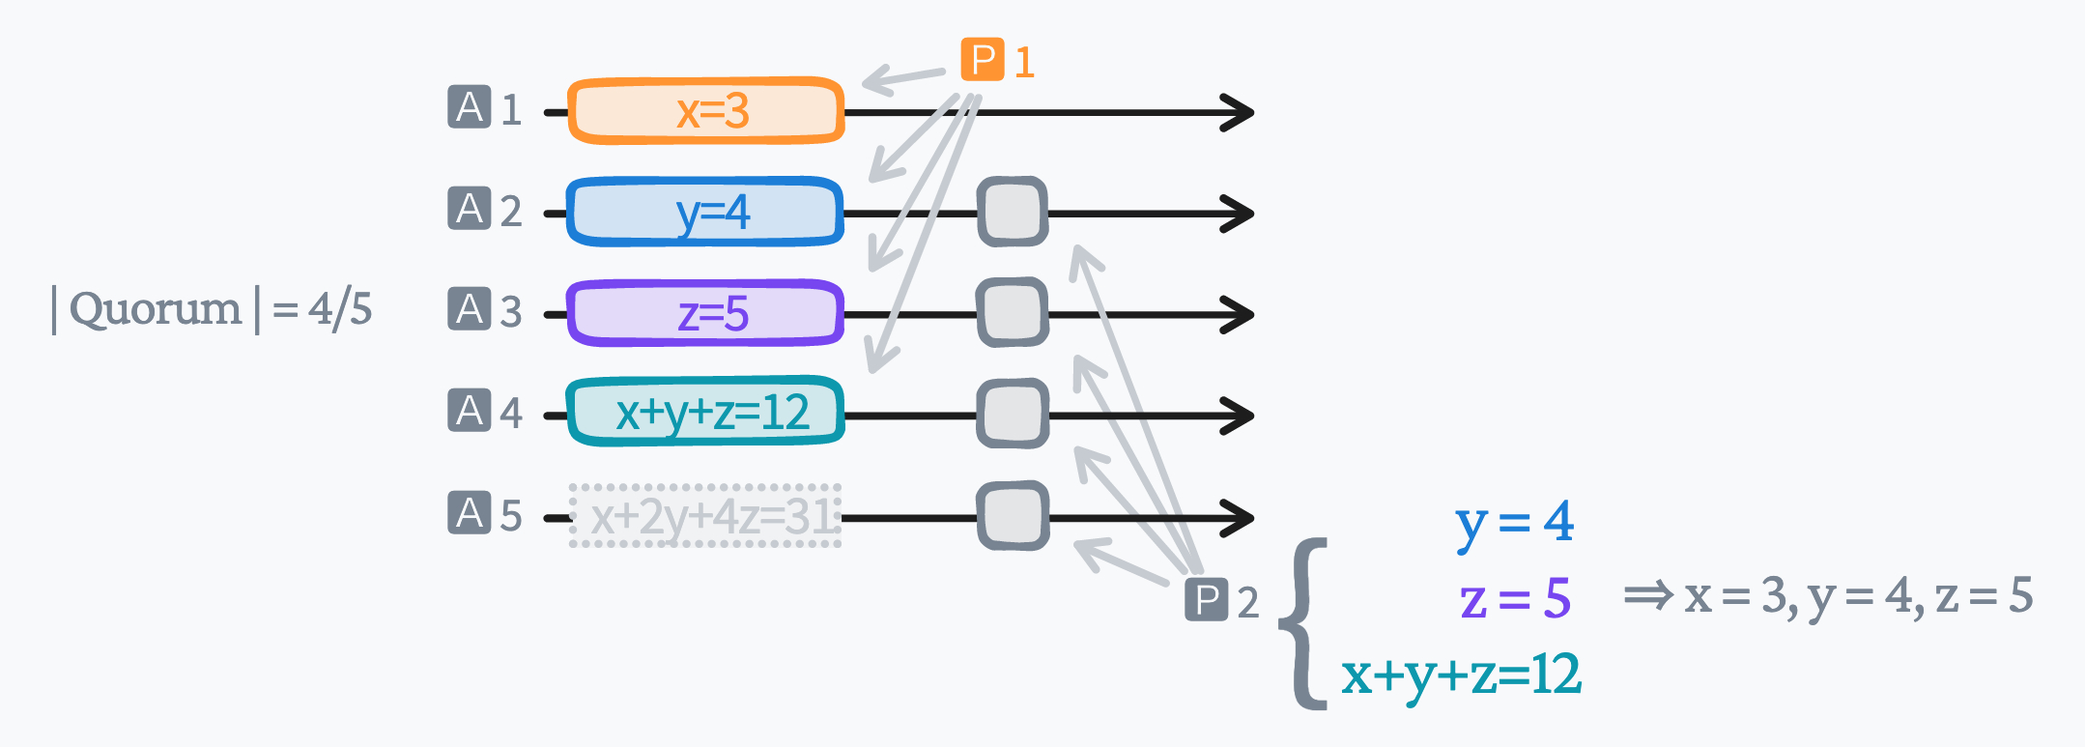
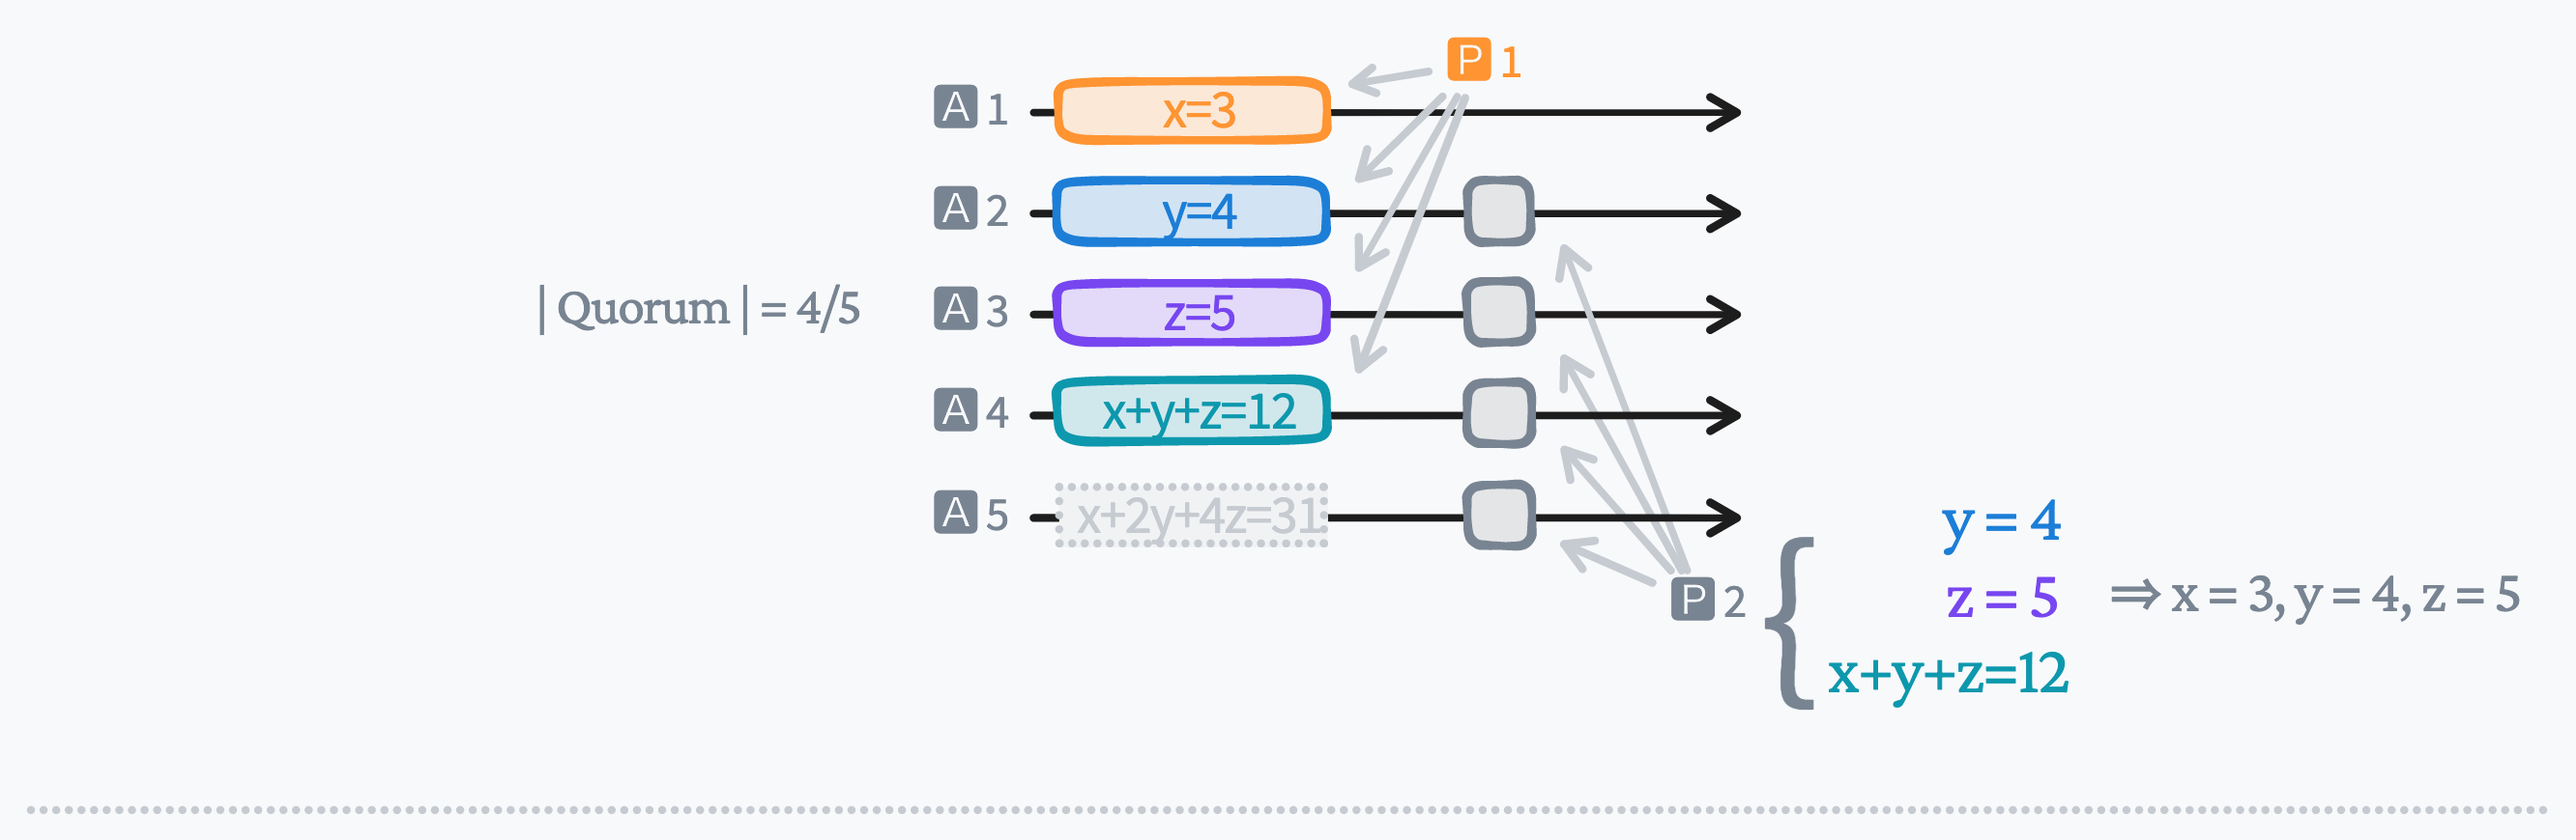
refine asymmetric paxos format

Changed region(s): [[0.031, 0.031, 0.9935, 0.9935], [0.7451, 0.5899, 0.8072, 0.652]]

diff --git a/src/list/asymmetric-paxos.md b/src/list/asymmetric-paxos.md
@@ -3,68 +3,37 @@
 An [erasure-code](https://en.wikipedia.org/wiki/Erasure_code) like algorithm can be applied to the storage layer of
 paxos to reduce data redundancy.
 
-### Paxos
-
 In [classic Paxos](http://lamport.azurewebsites.net/pubs/pubs.html#paxos-simple),
 acceptors are **symmetric**:
 
 ![classic](asymmetric-paxos-classic.jpeg)
 
-- A proposer(quorum: $q_i$) stores value $x$ on acceptors(at least 2 acceptors) to commit $x$.
+A proposer(quorum: $q_i$) stores value $x$ on acceptors(at least 2 acceptors) to commit $x$.
+To rebuild(read) $x$ from acceptors, another proposer(quorum: $q_j$) has to visit one of the acceptor that holds the committed value.
+Thus two quorums must have at least 1 common acceptors: $|q_i \cap q_j| \ge 1$.
+I.e., a quorum for a cluster of 3 is any 2 acceptors: $|q_i| \ge 2$.
 
-- To rebuild(read) $x$ from acceptors, another proposer(quorum: $q_j$) has to visit one of the acceptor that holds the committed value.
-  Thus two quorums must have at least 1 common acceptors:
-
-  $$
-  |q_i \cap q_j| \ge 1
-  $$
-
-  I.e., a quorum for a cluster of 3 is any 2 acceptors:
-
-  $$
-  |q_i| \ge 2
-  $$
-
-In a classic paxos of 3 acceptors:
-- Redundancy is 300%;
-- Tolerates 1 failure;
-- Availability is about ${ 3 \choose 2  } p^2$, where $p$ is acceptor failure rate.
+Redundancy is **300%**; Tolerates **1** failure; Availability is about ${ 3 \choose 2  } p^2$, where $p$ is acceptor failure rate.
 
 
 
-### Asymmetric Paxos
-
+**Asymmetric Paxos**:
 Because we can rebuild $x, y$ from a linear equation system $ax+by=d_1, cx+dy=d_2$,
 acceptor states can be **asymmetric** so that more data can be stored:
 
 ![ec](asymmetric-paxos-ec.jpeg)
 
-- A proposer(quorum: $q_i$) stores $x, y, x+y, x-y$ on acceptor 1 to 4(at least 3 of
-    them) to commit $x, y$.
 
-- To rebuild(read) $x, y$ from acceptors, another proposer(quorum: $q_j$) has to visit at least two of the **4 values**.
-  Thus two quorums must have at least 2 common acceptors:
+A proposer(quorum: $q_i$) stores $x, y, x+y, x-y$ on acceptor 1 to 4(at least 3 of them) to commit $x, y$.
+To rebuild(read) $x, y$ from acceptors, another proposer(quorum: $q_j$) has to visit at least two of the **4 values**.
+Thus two quorums must have at least 2 common acceptors: $|q_i \cap q_j| \ge 2$.
+A quorum for a cluster of 4 is any 3 acceptors: $|q_i| \ge 3$.
 
-  $$
-  |q_i \cap q_j| \ge 2
-  $$
-
-  A quorum for a cluster of 4 is any 3 acceptors:
-
-  $$
-  |q_i| \ge 3
-  $$
+With such a policy: Redundancy is **200%**; Tolerates **1** failure; Availability is about ${ 4 \choose 2  } p^2$, where $p$ is acceptor failure rate.
 
 
-With such a policy:
-- Redundancy is 200%;
-- Tolerates 1 failure;
-- Availability is about ${ 4 \choose 2  } p^2$, where $p$ is acceptor failure rate.
 
-
-### Asymmetric Paxos 5-4
-
-In a paxos cluster with 5 asymmetric acceptors can store 3 independent values
+Another example is **asymmetric Paxos 5-4**: 5 asymmetric acceptors can store 3 independent values
 $x, y, z$:
 
 ![ec53](asymmetric-paxos-ec-53.jpeg)
@@ -73,16 +42,11 @@ A proposer stores $x, y, z, x+y+z, x+2y+4z$ on acceptor 1 to 5.
 To rebuild these 3 values, this must hold: $|q_i \cap q_j| \ge 3$.
 Thus quorum size is at least 4: $|q_i| \ge 4$.
 
+Redundancy is **140%**; Tolerates **1** failure; Availability is about ${ 5 \choose 2  } p^2$.
 
-With this policy:
-- Redundancy is 140%;
-- Tolerates 1 failure;
-- Availability is about ${ 5 \choose 2  } p^2$.
 
-### Summary
 
-The avaiability decreases slightly while the data redundancy is reduced in [asymmetric Paxos](https://github.com/drmingdrmer/consensus-bugs#paxos-optimize-asymmetric-acceptors).
-
+**Summary**: with asymmetric paxos, the avaiability decreases slightly while the data redundancy is reduced in [asymmetric Paxos](https://github.com/drmingdrmer/consensus-bugs#paxos-optimize-asymmetric-acceptors).
 This algorithm applies to paxos and its variants but not to [raft](https://raft.github.io/).
 Because it requires more than one nodes to rebuild a committed value.
 
